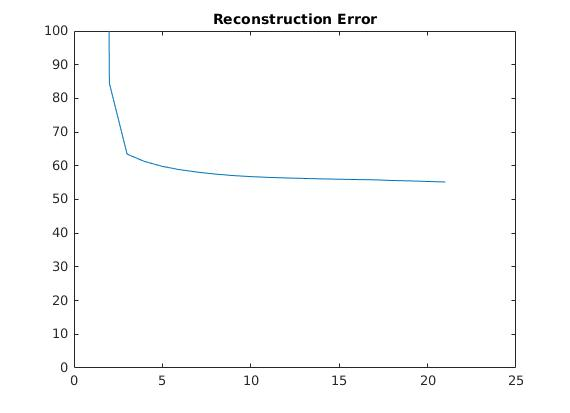
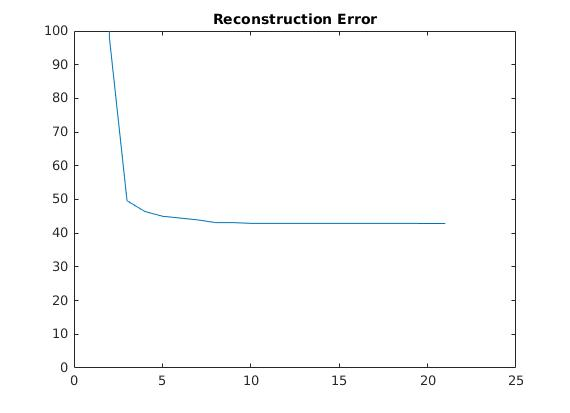
Add mask in total loss

diff --git a/+helper/total_loss.m b/+helper/total_loss.m
@@ -1,6 +1,10 @@
 function loss = total_loss(W, H, X, params)
-    [N,K,L] = size(W);
     % Total loss function
+    [N,K,L] = size(W);
+    Xhat = helper.reconstruct(W, H); 
+    mask = find(params.M == 0); % find masked (held-out) indices 
+    X(mask) = Xhat(mask); 
+
     if params.lambda>0
         smoothkernel = ones(1,(2*L)-1);  % for factor competition
         WTX = helper.transconv(W, X);
@@ -37,5 +41,5 @@ function loss = total_loss(W, H, X, params)
     else
         RW = 0;
     end
-    loss = norm(helper.reconstruct(W, H)-X, 'fro')^2/2 + RWXH + RH + RW + RHH + RWW;
+    loss = norm(Xhat-X, 'fro')^2/2 + RWXH + RH + RW + RHH + RWW;
 end

diff --git a/demo.m b/demo.m
@@ -27,7 +27,7 @@ L = 50;
 lambda =.005;
 shg; clf
 display('Running FlexMF on simulated data (3 simulated sequences + noise)')
-[W_hat,H_hat,errors,grads,loadings,power] = FlexMF(X,'K',K, 'L', L,'lambda', lambda, 'maxiter', 20, 'lambdaL1W', .01, 'lambdaL1H', .01);
+[W_hat,H_hat,errors,grads,loadings,power] = FlexMF(X,'K',K, 'L', L,'lambda', lambda, 'maxiter', 20, 'lambdaL1W', 1, 'lambdaL1H', 1);
 
 figure
 plot(grads.grads_H_recon_all)

diff --git a/SimpleWHPlot.m b/SimpleWHPlot.m
@@ -1,4 +1,4 @@
-function SimpleWHPlot(W,H,Data, plotAll); 
+function SimpleWHPlot(W,H,Data, plotAll) 
 % plots seqNMF factors W and H
 % Also plots Data if provided, and reconstruction if data is not provided
 % plotAll=1 means plot all data
